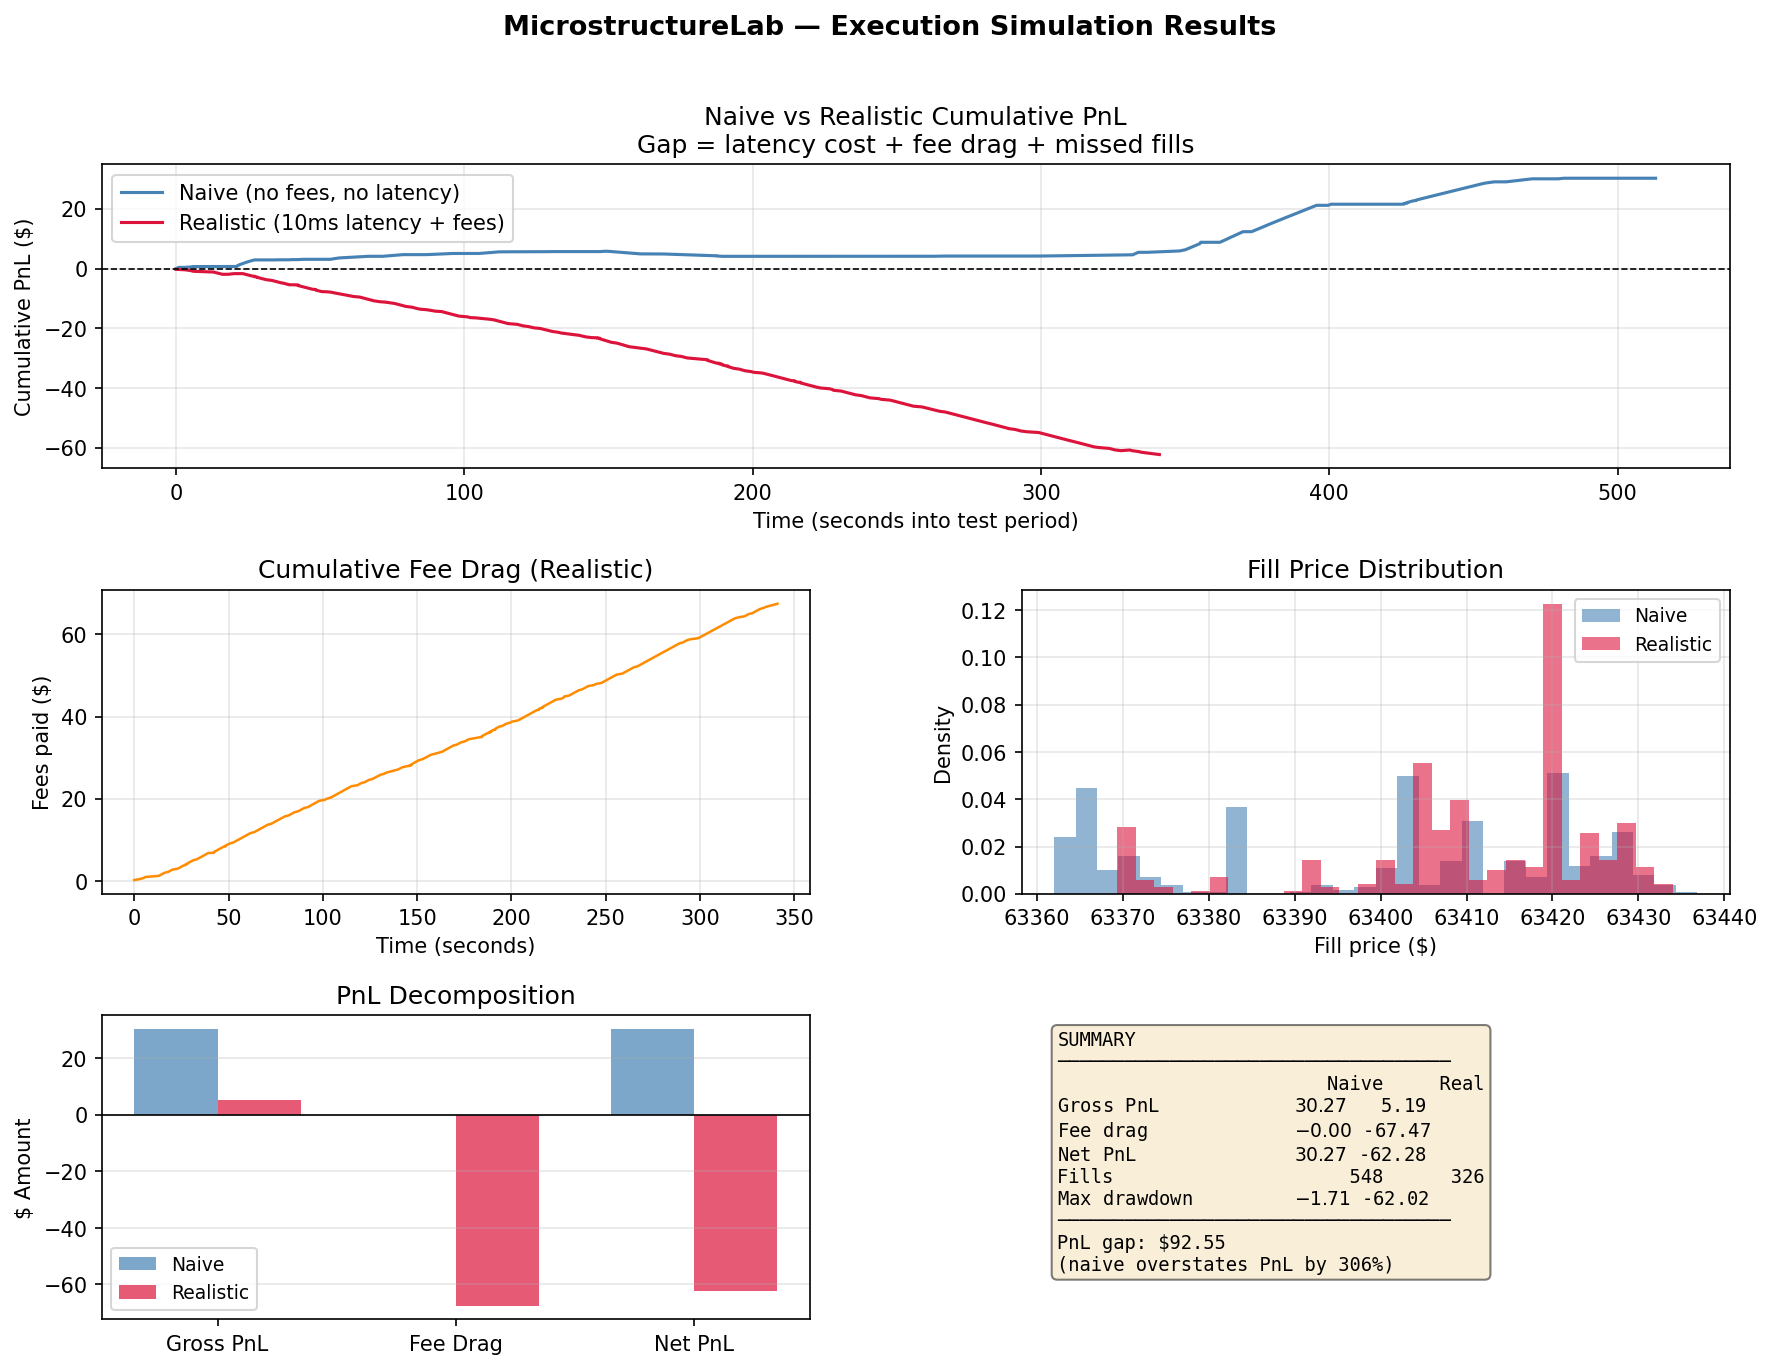
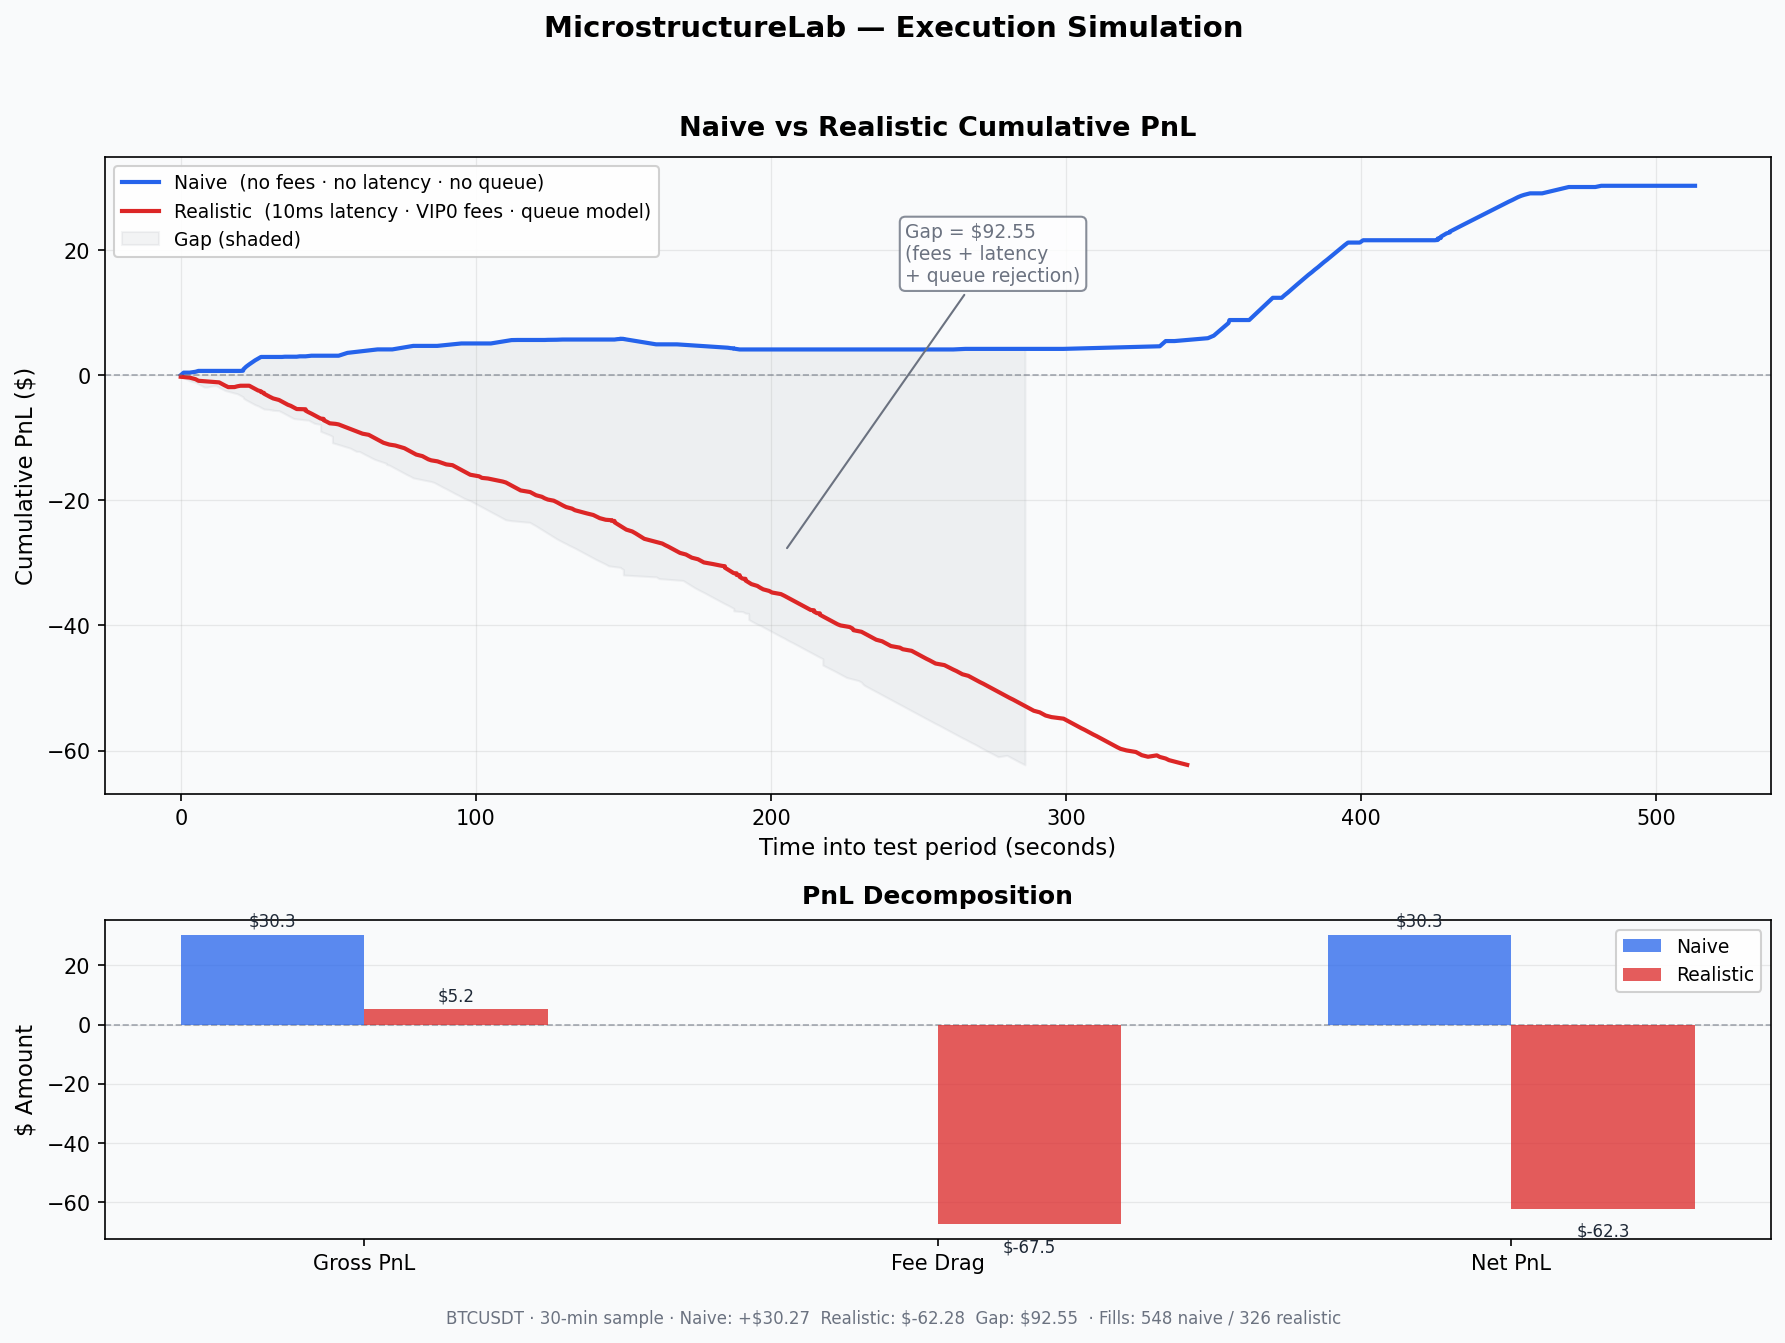
PnL decomposition + headline chart polish

diff --git a/python/mslab/backtest/analyze_fills.py b/python/mslab/backtest/analyze_fills.py
@@ -142,69 +142,83 @@ def plot_headline_chart(naive_fills: pd.DataFrame,
     """
     naive_pnl = compute_pnl_series(naive_fills)
     real_pnl  = compute_pnl_series(real_fills)
+    naive_sum = compute_summary(naive_fills, "Naive")
+    real_sum  = compute_summary(real_fills,  "Realistic")
 
-    fig = plt.figure(figsize=(14, 10))
-    gs  = gridspec.GridSpec(3, 2, figure=fig, hspace=0.4, wspace=0.3)
+    # ── Style ─────────────────────────────────────────────────────────────────
+    BLUE   = "#2563EB"
+    RED    = "#DC2626"
+    GRAY   = "#6B7280"
+    BG     = "#F9FAFB"
 
-    # ── Main chart: cumulative PnL comparison ─────────────────────────────────
-    ax_main = fig.add_subplot(gs[0, :])
+    fig, (ax_main, ax_decomp) = plt.subplots(
+        2, 1, figsize=(12, 9),
+        gridspec_kw={"height_ratios": [2, 1]},
+    )
+    fig.patch.set_facecolor(BG)
+    for ax in (ax_main, ax_decomp):
+        ax.set_facecolor(BG)
 
+    # ── Top panel: cumulative PnL ─────────────────────────────────────────────
     if not naive_pnl.empty:
         t_naive = (naive_pnl["fill_ts_ns"] -
                    naive_pnl["fill_ts_ns"].iloc[0]) / 1e9
         ax_main.plot(t_naive, naive_pnl["cum_pnl"],
-                     color="steelblue", linewidth=1.5,
-                     label="Naive (no fees, no latency)")
+                     color=BLUE, linewidth=2.0,
+                     label="Naive  (no fees · no latency · no queue)")
 
     if not real_pnl.empty:
         t_real = (real_pnl["fill_ts_ns"] -
                   real_pnl["fill_ts_ns"].iloc[0]) / 1e9
         ax_main.plot(t_real, real_pnl["cum_pnl"],
-                     color="crimson", linewidth=1.5,
-                     label="Realistic (10ms latency + fees)")
+                     color=RED, linewidth=2.0,
+                     label="Realistic  (10ms latency · VIP0 fees · queue model)")
 
-    ax_main.axhline(0, color="black", linewidth=0.8, linestyle="--")
-    ax_main.set_xlabel("Time (seconds into test period)")
-    ax_main.set_ylabel("Cumulative PnL ($)")
-    ax_main.set_title("Naive vs Realistic Cumulative PnL\n"
-                      "Gap = latency cost + fee drag + missed fills",
-                      fontsize=12)
-    ax_main.legend(fontsize=10)
-    ax_main.grid(alpha=0.3)
+    ax_main.axhline(0, color=GRAY, linewidth=0.8, linestyle="--", alpha=0.6)
 
-    # ── Fee drag over time ────────────────────────────────────────────────────
-    ax_fees = fig.add_subplot(gs[1, 0])
-    if not real_pnl.empty:
-        ax_fees.plot(t_real, real_pnl["cum_fees"],
-                     color="darkorange", linewidth=1.2)
-        ax_fees.set_title("Cumulative Fee Drag (Realistic)")
-        ax_fees.set_xlabel("Time (seconds)")
-        ax_fees.set_ylabel("Fees paid ($)")
-        ax_fees.grid(alpha=0.3)
+    # Annotate the gap at the end of the shorter series
+    if not naive_pnl.empty and not real_pnl.empty:
+        # Find where realistic ends
+        x_ann  = float(t_real.iloc[-1])
+        y_real = float(real_pnl["cum_pnl"].iloc[-1])
+        y_naive_at_end = float(naive_pnl["cum_pnl"].iloc[
+            min(len(naive_pnl) - 1,
+                int(x_ann / (t_naive.iloc[-1] / len(t_naive))))
+        ])
+        gap = naive_sum["total_pnl"] - real_sum["total_pnl"]
 
-    # ── Fill price distribution ───────────────────────────────────────────────
-    ax_dist = fig.add_subplot(gs[1, 1])
-    if not naive_fills.empty:
-        ax_dist.hist(naive_fills["fill_price"], bins=30,
-                     alpha=0.6, color="steelblue",
-                     label="Naive", density=True)
-    if not real_fills.empty:
-        ax_dist.hist(real_fills["fill_price"], bins=30,
-                     alpha=0.6, color="crimson",
-                     label="Realistic", density=True)
-    ax_dist.set_title("Fill Price Distribution")
-    ax_dist.set_xlabel("Fill price ($)")
-    ax_dist.set_ylabel("Density")
-    ax_dist.legend(fontsize=9)
-    ax_dist.grid(alpha=0.3)
+        ax_main.annotate(
+            f"Gap = ${gap:.2f}\n(fees + latency\n+ queue rejection)",
+            xy=(x_ann * 0.6, (y_real + y_naive_at_end) / 2),
+            xytext=(x_ann * 0.72, 15),
+            fontsize=9,
+            color=GRAY,
+            arrowprops=dict(arrowstyle="-", color=GRAY, lw=1.0),
+            bbox=dict(boxstyle="round,pad=0.3", facecolor="white",
+                      edgecolor=GRAY, alpha=0.8),
+        )
 
-    # ── PnL decomposition bar chart ───────────────────────────────────────────
-    ax_decomp = fig.add_subplot(gs[2, 0])
-    naive_sum = compute_summary(naive_fills,  "Naive")
-    real_sum  = compute_summary(real_fills,   "Realistic")
+        # Shade the gap region
+        min_len = min(len(naive_pnl), len(real_pnl))
+        t_shared     = t_naive.iloc[:min_len].values
+        naive_shared = naive_pnl["cum_pnl"].iloc[:min_len].values
+        real_shared  = real_pnl["cum_pnl"].iloc[:min_len].values
+        ax_main.fill_between(t_shared, real_shared, naive_shared,
+                             alpha=0.08, color=GRAY, label="Gap (shaded)")
 
-    categories = ["Gross PnL", "Fee Drag", "Net PnL"]
-    naive_vals = [
+    ax_main.set_xlabel("Time into test period (seconds)", fontsize=11)
+    ax_main.set_ylabel("Cumulative PnL ($)", fontsize=11)
+    ax_main.set_title(
+        "Naive vs Realistic Cumulative PnL",
+        fontsize=13, fontweight="bold", pad=10,
+    )
+    ax_main.legend(fontsize=9, loc="upper left", framealpha=0.9)
+    ax_main.grid(alpha=0.25, linewidth=0.6)
+    ax_main.tick_params(labelsize=10)
+
+    # ── Bottom panel: PnL decomposition bar chart ─────────────────────────────
+    categories  = ["Gross PnL", "Fee Drag", "Net PnL"]
+    naive_vals  = [
         naive_sum.get("gross_pnl", 0),
         -naive_sum.get("total_fees", 0),
         naive_sum.get("total_pnl", 0),
@@ -216,62 +230,58 @@ def plot_headline_chart(naive_fills: pd.DataFrame,
     ]
 
     x     = np.arange(len(categories))
-    width = 0.35
-    ax_decomp.bar(x - width/2, naive_vals, width,
-                  color="steelblue", alpha=0.7, label="Naive")
-    ax_decomp.bar(x + width/2, real_vals,  width,
-                  color="crimson",   alpha=0.7, label="Realistic")
-    ax_decomp.axhline(0, color="black", linewidth=0.8)
+    width = 0.32
+
+    bars_n = ax_decomp.bar(x - width / 2, naive_vals, width,
+                            color=BLUE, alpha=0.75, label="Naive",
+                            zorder=3)
+    bars_r = ax_decomp.bar(x + width / 2, real_vals, width,
+                            color=RED, alpha=0.75, label="Realistic",
+                            zorder=3)
+
+    # Value labels on bars
+    for bar in list(bars_n) + list(bars_r):
+        h = bar.get_height()
+        if abs(h) > 0.5:
+            ax_decomp.text(
+                bar.get_x() + bar.get_width() / 2,
+                h + (1.5 if h >= 0 else -4.5),
+                f"${h:.1f}",
+                ha="center",
+                va="top" if h < 0 else "bottom",
+                fontsize=8, color="#1F2937",
+            )
+
+    ax_decomp.axhline(0, color=GRAY, linewidth=0.8, linestyle="--", alpha=0.6)
     ax_decomp.set_xticks(x)
-    ax_decomp.set_xticklabels(categories)
-    ax_decomp.set_ylabel("$ Amount")
-    ax_decomp.set_title("PnL Decomposition")
-    ax_decomp.legend(fontsize=9)
-    ax_decomp.grid(alpha=0.3, axis="y")
+    ax_decomp.set_xticklabels(categories, fontsize=11)
+    ax_decomp.set_ylabel("$ Amount", fontsize=11)
+    ax_decomp.set_title("PnL Decomposition", fontsize=12,
+                         fontweight="bold", pad=8)
+    ax_decomp.legend(fontsize=9, framealpha=0.9)
+    ax_decomp.grid(alpha=0.25, linewidth=0.6, axis="y", zorder=0)
+    ax_decomp.tick_params(labelsize=10)
 
-    # ── Summary text ──────────────────────────────────────────────────────────
-    ax_text = fig.add_subplot(gs[2, 1])
-    ax_text.axis("off")
-
-    gap = naive_sum.get("total_pnl", 0) - real_sum.get("total_pnl", 0)
-    summary_text = (
-        f"SUMMARY\n"
-        f"{'─'*35}\n"
-        f"{'':20s} {'Naive':>8s} {'Real':>8s}\n"
-        f"{'Gross PnL':20s} "
-        f"${naive_sum.get('gross_pnl', 0):>7.2f} "
-        f"${real_sum.get('gross_pnl', 0):>7.2f}\n"
-        f"{'Fee drag':20s} "
-        f"${-naive_sum.get('total_fees', 0):>7.2f} "
-        f"${-real_sum.get('total_fees', 0):>7.2f}\n"
-        f"{'Net PnL':20s} "
-        f"${naive_sum.get('total_pnl', 0):>7.2f} "
-        f"${real_sum.get('total_pnl', 0):>7.2f}\n"
-        f"{'Fills':20s} "
-        f"{naive_sum.get('n_fills', 0):>8d} "
-        f"{real_sum.get('n_fills', 0):>8d}\n"
-        f"{'Max drawdown':20s} "
-        f"${naive_sum.get('max_dd', 0):>7.2f} "
-        f"${real_sum.get('max_dd', 0):>7.2f}\n"
-        f"{'─'*35}\n"
-        f"PnL gap: ${gap:.2f}\n"
-        f"(naive overstates PnL by "
-        f"{abs(gap)/max(abs(naive_sum.get('total_pnl',1)),0.01)*100:.0f}%)"
+    # ── Footer ────────────────────────────────────────────────────────────────
+    fig.text(
+        0.5, 0.01,
+        f"BTCUSDT · 30-min sample · "
+        f"Naive: +${naive_sum['total_pnl']:.2f}  "
+        f"Realistic: ${real_sum['total_pnl']:.2f}  "
+        f"Gap: ${naive_sum['total_pnl'] - real_sum['total_pnl']:.2f}  "
+        f"· Fills: {naive_sum['n_fills']} naive / {real_sum['n_fills']} realistic",
+        ha="center", fontsize=8, color=GRAY,
     )
-    ax_text.text(0.05, 0.95, summary_text,
-                 transform=ax_text.transAxes,
-                 fontsize=9, verticalalignment="top",
-                 fontfamily="monospace",
-                 bbox=dict(boxstyle="round", facecolor="wheat", alpha=0.5))
 
-    plt.suptitle("MicrostructureLab — Execution Simulation Results",
-                 fontsize=13, fontweight="bold")
+    plt.suptitle(
+        "MicrostructureLab — Execution Simulation",
+        fontsize=14, fontweight="bold", y=0.98,
+    )
+    plt.tight_layout(rect=[0, 0.03, 1, 0.96])
 
     out = FIGURES / "headline_pnl_chart.png"
-    plt.savefig(out, dpi=150, bbox_inches="tight")
-    plt.show()
+    plt.savefig(out, dpi=150, bbox_inches="tight", facecolor=BG)
     print(f"Headline chart saved to {out}")
-
 
 def run(symbol: str = "BTCUSDT") -> None:
     print("=" * 60)